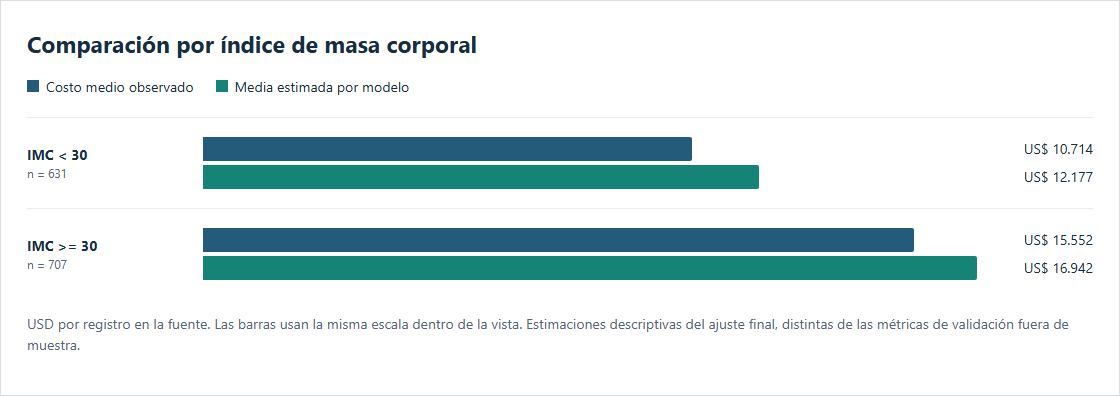
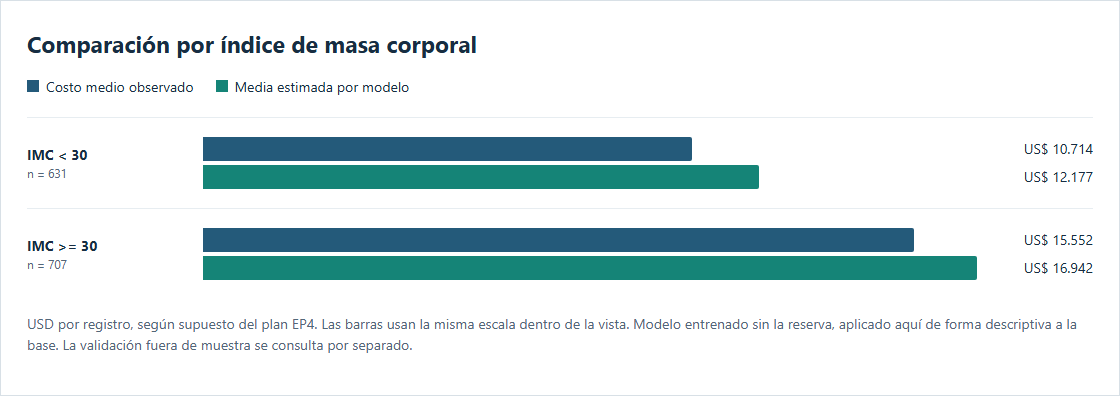
Verifica artefactos reproducidos y documenta pruebas de interfaz

Changed region(s): [[0.0312, 0.7879, 0.9688, 0.9091]]

diff --git a/dashboard/index.html b/dashboard/index.html
@@ -19,7 +19,7 @@ header{background:var(--ink);color:white;padding:36px max(24px,calc((100vw - 112
 <p class="intro">Exploración de costos observados y estimaciones del modelo de factores. Las diferencias muestran asociaciones en esta muestra y sirven para discutir presupuestos grupales. La base no acredita representatividad de una cartera real.</p>
 <div class="controls"><label>Tabaquismo<select id="smoker"><option value="all">Todos los afiliados</option><option value="no">No fumadores</option><option value="yes">Fumadores</option></select></label><label>Comparar por<select id="dimension"><option value="bmi">Índice de masa corporal</option><option value="age">Edad</option><option value="region">Región de EE. UU.</option><option value="children">Hijos o dependientes</option></select></label></div>
 <div class="metrics" aria-live="polite"><div class="metric"><span>Registros en grupos visibles</span><strong id="count">—</strong></div><div class="metric"><span>Costo medio observado</span><strong id="observed">—</strong></div><div class="metric"><span>Media estimada por modelo</span><strong id="expected">—</strong></div></div>
-<section class="section"><h2 id="chart-title">Comparación por grupo</h2><div class="legend"><span>Costo medio observado</span><span>Media estimada por modelo</span></div><div id="chart" role="img" aria-label="Comparación de costos por grupo"></div><p class="note">USD por registro en la fuente. Las barras usan la misma escala dentro de la vista. Estimaciones descriptivas del ajuste final, distintas de las métricas de validación fuera de muestra.</p></section>
+<section class="section"><h2 id="chart-title">Comparación por grupo</h2><div class="legend"><span>Costo medio observado</span><span>Media estimada por modelo</span></div><div id="chart" role="img" aria-label="Comparación de costos por grupo"></div><p class="note">USD por registro, según supuesto del plan EP4. Las barras usan la misma escala dentro de la vista. Modelo entrenado sin la reserva, aplicado aquí de forma descriptiva a la base. La validación fuera de muestra se consulta por separado.</p></section>
 <section class="section"><h2>Detalle y tamaño de cada grupo</h2><div class="tablewrap"><table><thead><tr><th>Grupo</th><th>n</th><th>Observado USD</th><th>Estimado USD</th><th>Diferencia USD</th></tr></thead><tbody id="detail"></tbody></table></div><p id="small-groups" class="note warning"></p></section>
 <footer><p>El modelo transforma log(charges) a USD con el factor de retransformación descrito en el informe. Se omiten celdas de menos de 5 registros. Los indicadores resumen únicamente los grupos visibles. Los grupos con n&lt;20 requieren cautela. Los datos agregados no representan efecto causal, ahorro garantizado ni cotización individual.</p><p><a href="https://github.com/vicezepeda/Medical-Cost-Personal_Proyect">Código, notebook y evidencia de validación</a> · <a href="https://github.com/vicezepeda/Medical-Cost-Personal_Proyect/issues">Seguimiento del proyecto</a></p></footer>
 </main>

diff --git a/dashboard/template.html b/dashboard/template.html
@@ -19,7 +19,7 @@ header{background:var(--ink);color:white;padding:36px max(24px,calc((100vw - 112
 <p class="intro">Exploración de costos observados y estimaciones del modelo de factores. Las diferencias muestran asociaciones en esta muestra y sirven para discutir presupuestos grupales. La base no acredita representatividad de una cartera real.</p>
 <div class="controls"><label>Tabaquismo<select id="smoker"><option value="all">Todos los afiliados</option><option value="no">No fumadores</option><option value="yes">Fumadores</option></select></label><label>Comparar por<select id="dimension"><option value="bmi">Índice de masa corporal</option><option value="age">Edad</option><option value="region">Región de EE. UU.</option><option value="children">Hijos o dependientes</option></select></label></div>
 <div class="metrics" aria-live="polite"><div class="metric"><span>Registros en grupos visibles</span><strong id="count">—</strong></div><div class="metric"><span>Costo medio observado</span><strong id="observed">—</strong></div><div class="metric"><span>Media estimada por modelo</span><strong id="expected">—</strong></div></div>
-<section class="section"><h2 id="chart-title">Comparación por grupo</h2><div class="legend"><span>Costo medio observado</span><span>Media estimada por modelo</span></div><div id="chart" role="img" aria-label="Comparación de costos por grupo"></div><p class="note">USD por registro en la fuente. Las barras usan la misma escala dentro de la vista. Estimaciones descriptivas del ajuste final, distintas de las métricas de validación fuera de muestra.</p></section>
+<section class="section"><h2 id="chart-title">Comparación por grupo</h2><div class="legend"><span>Costo medio observado</span><span>Media estimada por modelo</span></div><div id="chart" role="img" aria-label="Comparación de costos por grupo"></div><p class="note">USD por registro, según supuesto del plan EP4. Las barras usan la misma escala dentro de la vista. Modelo entrenado sin la reserva, aplicado aquí de forma descriptiva a la base. La validación fuera de muestra se consulta por separado.</p></section>
 <section class="section"><h2>Detalle y tamaño de cada grupo</h2><div class="tablewrap"><table><thead><tr><th>Grupo</th><th>n</th><th>Observado USD</th><th>Estimado USD</th><th>Diferencia USD</th></tr></thead><tbody id="detail"></tbody></table></div><p id="small-groups" class="note warning"></p></section>
 <footer><p>El modelo transforma log(charges) a USD con el factor de retransformación descrito en el informe. Se omiten celdas de menos de 5 registros. Los indicadores resumen únicamente los grupos visibles. Los grupos con n&lt;20 requieren cautela. Los datos agregados no representan efecto causal, ahorro garantizado ni cotización individual.</p><p><a href="https://github.com/vicezepeda/Medical-Cost-Personal_Proyect">Código, notebook y evidencia de validación</a> · <a href="https://github.com/vicezepeda/Medical-Cost-Personal_Proyect/issues">Seguimiento del proyecto</a></p></footer>
 </main>
